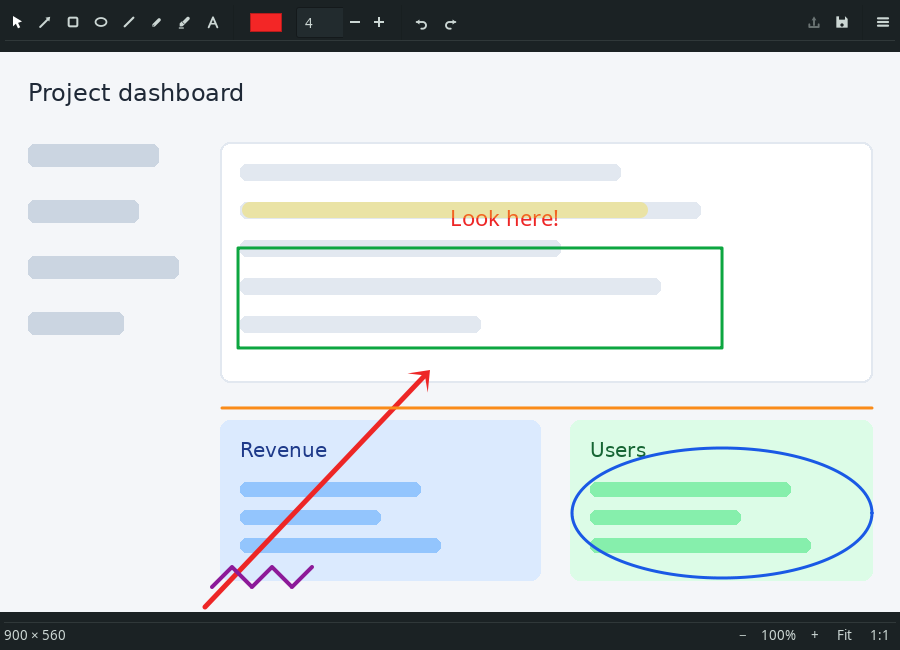
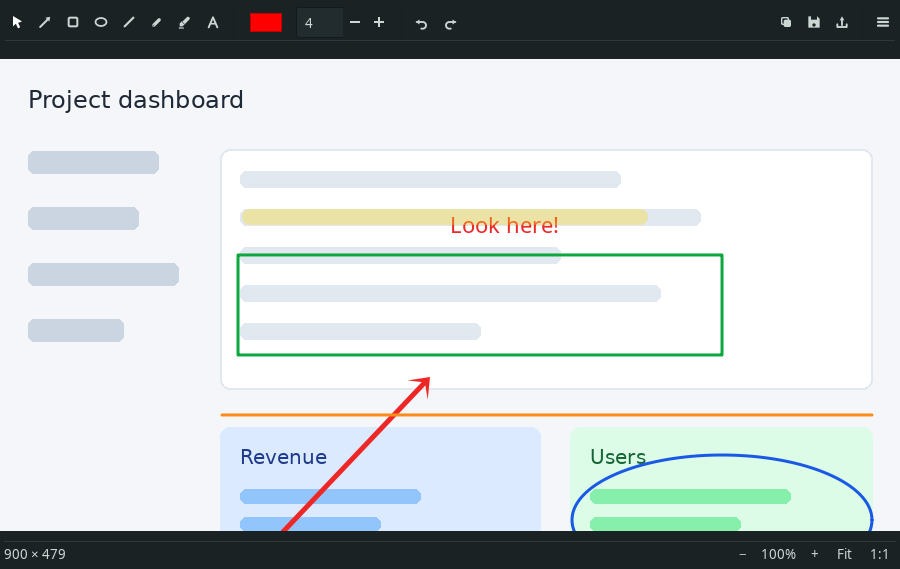
Add clipboard copy functionality with notification; update README and changelog

Changed region(s): [[0.0, 0.239, 1.0, 0.9859], [0.0, 0.0, 1.0, 0.6274], [0.9644, 0.7768, 0.9956, 0.8067]]

diff --git a/src/gannotate/app.py b/src/gannotate/app.py
@@ -16,7 +16,14 @@ from gi.repository import Gdk, GdkPixbuf, GLib, Gtk  # noqa: E402
 from . import ICON_PATH, ICON_ROOT, __app_name__, __version__  # noqa: E402
 from .config import save_config  # noqa: E402
 from .model import bbox, hit, scale_annotation, translate  # noqa: E402
-from .render import ARROW_STYLES, draw_annotation, flatten, measure_text  # noqa: E402
+from .notify import notify  # noqa: E402
+from .render import (
+    ARROW_STYLES,
+    draw_annotation,
+    flatten,
+    measure_text,
+    render_surface,
+)  # noqa: E402
 
 HANDLE = 9  # screen pixels
 TOOLS = [
@@ -201,6 +208,7 @@ class Gannotate(Gtk.Window):
         self.zoom_fit_mode = True
         self._fit_pending = False
         self._fallback_viewport = (820, 520)
+        self._info_timer = None
 
         vbox = Gtk.Box(orientation=Gtk.Orientation.VERTICAL, spacing=0)
         self.add(vbox)
@@ -248,14 +256,25 @@ class Gannotate(Gtk.Window):
         )
         bar.pack_start(self.redo_btn, False, False, 0)
 
+        self._accel_group = Gtk.AccelGroup()
+        self.add_accel_group(self._accel_group)
+
         bar.pack_end(self.menu_button(), False, False, 0)
         bar.pack_end(Gtk.Separator(orientation=Gtk.Orientation.VERTICAL), False, False, 4)
+        self.upload_btn = self.icon_button(
+            "gannotate-upload-symbolic", "Upload (Enter)", self.upload
+        )
+        bar.pack_end(self.upload_btn, False, False, 0)
         self.save_btn = self.icon_button(
             "gannotate-save-symbolic", "Save as... (Ctrl+S)", self.save_dialog
         )
         bar.pack_end(self.save_btn, False, False, 0)
-        self.upload_btn = self.icon_button("gannotate-upload-symbolic", "Upload (Enter)", self.upload)
-        bar.pack_end(self.upload_btn, False, False, 0)
+        self.copy_btn = self.icon_button(
+            "gannotate-copy-symbolic",
+            "Copy to clipboard (Ctrl+C)",
+            self.copy_to_clipboard,
+        )
+        bar.pack_end(self.copy_btn, False, False, 0)
 
         self.area = Gtk.DrawingArea()
         self.area.set_size_request(dw, dh)
@@ -287,6 +306,7 @@ class Gannotate(Gtk.Window):
         vbox.pack_start(self.statusbar, False, False, 0)
 
         self.connect("key-press-event", self.on_key)
+        self.connect("destroy", self._on_destroy)
         self.connect("destroy", Gtk.main_quit)
 
         if path is not None:
@@ -361,11 +381,21 @@ class Gannotate(Gtk.Window):
         self._menu_item(menu, "Open Image...", "gannotate-open-symbolic", self.open_file)
         menu.append(Gtk.SeparatorMenuItem())
 
-        self.upload_menu_item = self._menu_item(
-            menu, "Upload", "gannotate-upload-symbolic", self.upload
+        self.copy_menu_item = self._menu_item(
+            menu, "Copy to Clipboard", "gannotate-copy-symbolic", self.copy_to_clipboard
+        )
+        self.copy_menu_item.add_accelerator(
+            "activate",
+            self._accel_group,
+            Gdk.KEY_c,
+            Gdk.ModifierType.CONTROL_MASK,
+            Gtk.AccelFlags.VISIBLE,
         )
         self.save_menu_item = self._menu_item(
             menu, "Save...", "gannotate-save-symbolic", self.save_dialog
+        )
+        self.upload_menu_item = self._menu_item(
+            menu, "Upload", "gannotate-upload-symbolic", self.upload
         )
         menu.append(Gtk.SeparatorMenuItem())
 
@@ -463,10 +493,13 @@ class Gannotate(Gtk.Window):
         self.undo_btn.set_sensitive(enabled)
         self.redo_btn.set_sensitive(enabled)
         self.save_btn.set_sensitive(enabled)
+        self.copy_btn.set_sensitive(enabled)
         for btn in getattr(self, "zoom_buttons", []):
             btn.set_sensitive(enabled)
         if getattr(self, "save_menu_item", None) is not None:
             self.save_menu_item.set_sensitive(enabled)
+        if getattr(self, "copy_menu_item", None) is not None:
+            self.copy_menu_item.set_sensitive(enabled)
         self.update_upload_state()
         if not enabled:
             self.upload_btn.set_sensitive(False)
@@ -665,6 +698,9 @@ class Gannotate(Gtk.Window):
             return True
         if key in (Gdk.KEY_Return, Gdk.KEY_KP_Enter) and not ctrl:
             self.upload()
+            return True
+        if ctrl and key in (Gdk.KEY_c, Gdk.KEY_C):
+            self.copy_to_clipboard()
             return True
         if ctrl and key in (Gdk.KEY_s, Gdk.KEY_S):
             self.save_dialog()
@@ -999,6 +1035,44 @@ class Gannotate(Gtk.Window):
         self.result_path = None
         self.upload_after = False
         self.close()
+
+    def copy_to_clipboard(self):
+        if self.base_surface is None:
+            return
+        surface = render_surface(
+            self.base_surface,
+            self.annots,
+            self.img_w,
+            self.img_h,
+            self.arrow_style,
+        )
+        surface.flush()
+        pixbuf = Gdk.pixbuf_get_from_surface(
+            surface, 0, 0, self.img_w, self.img_h
+        )
+        if pixbuf is None:
+            return
+        clipboard = Gtk.Clipboard.get(Gdk.SELECTION_CLIPBOARD)
+        clipboard.set_image(pixbuf)
+        clipboard.store()
+        self._flash_info("Copied to clipboard")
+        notify("Image copied to clipboard")
+
+    def _flash_info(self, message):
+        if self._info_timer is not None:
+            GLib.source_remove(self._info_timer)
+        self.info_label.set_text(message)
+        self._info_timer = GLib.timeout_add(1500, self._restore_info)
+
+    def _restore_info(self):
+        self._info_timer = None
+        self.update_info_label()
+        return False
+
+    def _on_destroy(self, *_):
+        if self._info_timer is not None:
+            GLib.source_remove(self._info_timer)
+            self._info_timer = None
 
     def upload(self):
         if self.base_surface is None:

diff --git a/tests/test_app.py b/tests/test_app.py
@@ -69,8 +69,10 @@ class AppTests(unittest.TestCase):
             self.app.redo_btn,
             self.app.save_btn,
             self.app.upload_btn,
+            self.app.copy_btn,
             self.app.save_menu_item,
             self.app.upload_menu_item,
+            self.app.copy_menu_item,
             *self.app.zoom_buttons,
         ):
             self.assertFalse(widget.get_sensitive())
@@ -101,8 +103,10 @@ class AppTests(unittest.TestCase):
             self.assertTrue(self.app.redo_btn.get_sensitive())
             self.assertTrue(self.app.save_btn.get_sensitive())
             self.assertTrue(self.app.upload_btn.get_sensitive())
+            self.assertTrue(self.app.copy_btn.get_sensitive())
             self.assertTrue(self.app.save_menu_item.get_sensitive())
             self.assertTrue(self.app.upload_menu_item.get_sensitive())
+            self.assertTrue(self.app.copy_menu_item.get_sensitive())
             for widget in self.app.zoom_buttons:
                 self.assertTrue(widget.get_sensitive())
 
@@ -120,6 +124,8 @@ class AppTests(unittest.TestCase):
             self.assertFalse(self.app.tool_buttons["arrow"].get_sensitive())
             self.assertFalse(self.app.save_btn.get_sensitive())
             self.assertFalse(self.app.upload_btn.get_sensitive())
+            self.assertFalse(self.app.copy_btn.get_sensitive())
+            self.assertFalse(self.app.copy_menu_item.get_sensitive())
             for widget in self.app.zoom_buttons:
                 self.assertFalse(widget.get_sensitive())
 
@@ -173,6 +179,34 @@ class AppTests(unittest.TestCase):
             self.assertTrue(self.app.save_btn.get_sensitive())
             self.assertFalse(self.app.upload_btn.get_sensitive())
             self.assertFalse(self.app.upload_menu_item.get_sensitive())
+
+    def test_copy_to_clipboard_keeps_window(self):
+        with tempfile.TemporaryDirectory() as folder:
+            path = os.path.join(folder, "test.png")
+            make_png(path)
+            self.app.load_image(path)
+
+            clipboard = mock.Mock()
+            with mock.patch.object(Gtk.Clipboard, "get", return_value=clipboard), mock.patch(
+                "gannotate.app.notify"
+            ) as notify:
+                handled = self.app.on_key(
+                    self.app,
+                    SimpleNamespace(
+                        keyval=Gdk.KEY_c,
+                        state=Gdk.ModifierType.CONTROL_MASK,
+                    ),
+                )
+
+            self.assertTrue(handled)
+            notify.assert_called_once_with("Image copied to clipboard")
+            clipboard.set_image.assert_called_once()
+            clipboard.store.assert_called_once()
+            pixbuf = clipboard.set_image.call_args[0][0]
+            self.assertEqual((pixbuf.get_width(), pixbuf.get_height()), (120, 80))
+            self.assertIsNone(self.app.result_path)
+            self.assertFalse(self.app.upload_after)
+            self.assertIsNotNone(self.app.base_surface)
 
     def test_open_file_from_blank(self):
         class FakeFileChooser:

diff --git a/src/gannotate/render.py b/src/gannotate/render.py
@@ -152,11 +152,15 @@ def draw_annotation(cr, a, arrow_style="classic"):
         draw_text(cr, a)
 
 
-def flatten(base_surface, annots, width, height, path, arrow_style="classic"):
+def render_surface(base_surface, annots, width, height, arrow_style="classic"):
     surface = cairo.ImageSurface(cairo.FORMAT_ARGB32, width, height)
     cr = cairo.Context(surface)
     cr.set_source_surface(base_surface, 0, 0)
     cr.paint()
     for a in annots:
         draw_annotation(cr, a, arrow_style)
-    surface.write_to_png(path)
+    return surface
+
+
+def flatten(base_surface, annots, width, height, path, arrow_style="classic"):
+    render_surface(base_surface, annots, width, height, arrow_style).write_to_png(path)

diff --git a/src/gannotate/__main__.py b/src/gannotate/__main__.py
@@ -2,7 +2,6 @@
 
 import os
 import shutil
-import subprocess
 import sys
 import time
 
@@ -11,15 +10,10 @@ import gi
 gi.require_version("Gtk", "3.0")
 from gi.repository import Gtk  # noqa: E402
 
-from . import ICON_PATH, __app_name__  # noqa: E402
 from .app import Gannotate  # noqa: E402
 from .config import load_config  # noqa: E402
+from .notify import notify  # noqa: E402
 from .upload import run_upload  # noqa: E402
-
-
-def notify(message):
-    icon = ICON_PATH if os.path.isfile(ICON_PATH) else "gannotate"
-    subprocess.run(["notify-send", "-i", icon, __app_name__, message], check=False)
 
 
 def save_local(path):

diff --git a/src/gannotate/notify.py b/src/gannotate/notify.py
@@ -1,0 +1,19 @@
+"""Desktop notifications."""
+
+import os
+import subprocess
+
+from . import ICON_PATH, __app_name__
+
+
+def notify(message, title=__app_name__, icon=None):
+    if icon is None:
+        icon = ICON_PATH if os.path.isfile(ICON_PATH) else "gannotate"
+    try:
+        subprocess.Popen(
+            ["notify-send", "-a", __app_name__, "-i", str(icon), title, message],
+            stdout=subprocess.DEVNULL,
+            stderr=subprocess.DEVNULL,
+        )
+    except OSError:
+        pass

diff --git a/README.md b/README.md
@@ -16,6 +16,8 @@ can hand it off to any upload command you configure.
   middle-drag or Ctrl+drag to pan.
 - Select tool to move and resize annotations after adding them.
 - Undo/redo and delete selected.
+- Copy the annotated image to the clipboard (Ctrl+C) without closing, with
+  a desktop notification.
 - Save as PNG or run a configurable upload command.
 - Uploads are opt-in and disabled by default.
 - Small dependency footprint: GTK3 + Cairo.
@@ -92,6 +94,7 @@ Then capture a region and pick the action. `%f` is the captured image path.
 | Key                    | Action                    |
 |------------------------|---------------------------|
 | Enter                  | Upload (if configured)    |
+| Ctrl+C                 | Copy image to clipboard   |
 | Ctrl+S                 | Save as...                |
 | Esc                    | Cancel                    |
 | Ctrl+Z                 | Undo                      |
@@ -133,6 +136,7 @@ src/gannotate/app.py       GTK window and interactions
 src/gannotate/model.py     annotation geometry (pure, testable)
 src/gannotate/render.py    Cairo rendering
 src/gannotate/config.py    config file handling
+src/gannotate/notify.py    desktop notifications
 src/gannotate/upload.py    upload command runner
 src/gannotate/__main__.py  CLI entry point
 ```

diff --git a/CHANGELOG.md b/CHANGELOG.md
@@ -7,6 +7,11 @@ and this project adheres to [Semantic Versioning](https://semver.org/spec/v2.0.0
 
 ## [Unreleased]
 
+### Added
+
+- Copy the annotated image to the clipboard without closing the window
+  (toolbar button, menu item and Ctrl+C), with a desktop notification.
+
 ## [0.1.0] - 2026-11-04
 
 ### Added
